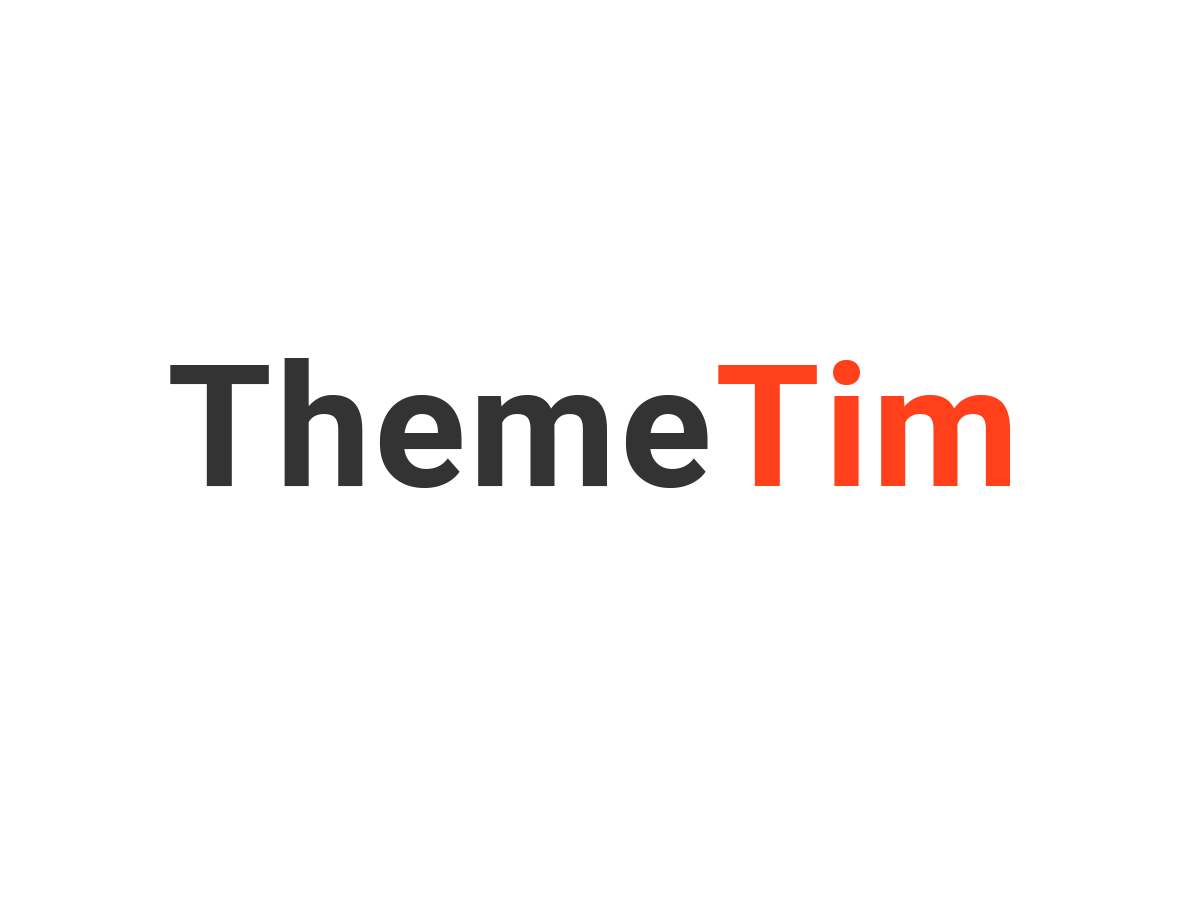
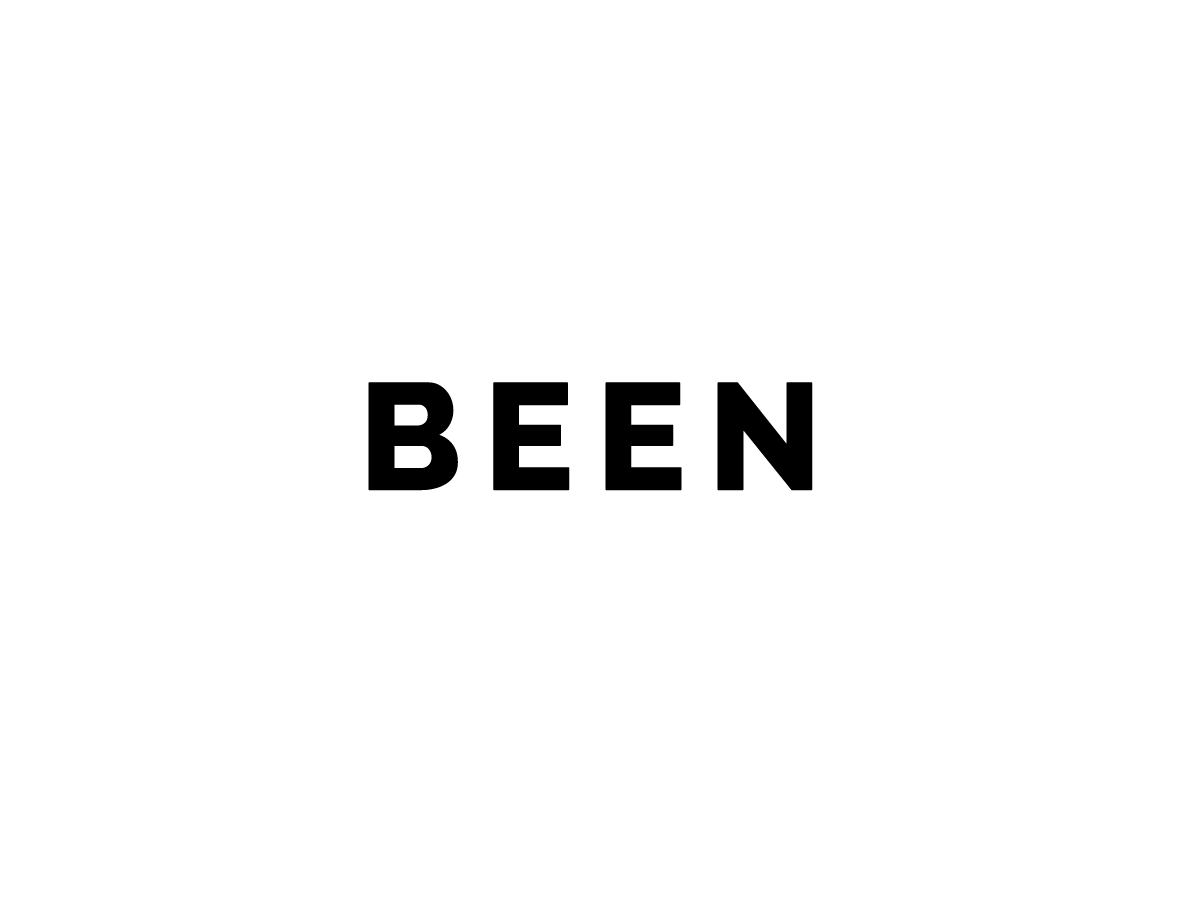
home page

Changed region(s): [[0.1233, 0.4044, 0.8633, 0.56]]

diff --git a/style.css b/style.css
@@ -1,11 +1,11 @@
 /*
-Theme Name: Yoga Responsive WooCommerce WordPress Theme
+Theme Name: Been Woman Fashion Store WooCommerce WordPress Responsive Theme
 Theme URI: http://themetim.com/
-Author: ThemeTim
+Author: themetim.com
 Author URI: http://themetim.com/
-Description: Yoga is responsive woocommerce integrated theme which is designed subtle and prevailing. Ideal for featuring yoga products and techniques. It has been optimized for best practice SEO with visual page builder integration.
+Description: Been is responsive woocommerce integrated theme which is designed subtle and prevailing. Ideal for featuring Been products and techniques. It has been optimized for best practice SEO with visual page builder integration.
 Version: 1.0
-Text Domain: themetim
+Text Domain: themetim.com
 Tags: fully customizable, visual page builder, mobile responsive, responsive, grid, bootstrap, custom menu, full width, custom sidebar, ecommerce, blog, modern design, featured image, custom background, news and promotions, social,woocommerce
 */
 
@@ -171,8 +171,6 @@ p,.textwidget,.woocommerce-Address address {
 }
 .header{
 	top: 0;
-	position: fixed;
-	width: 100%;
 	z-index: 10;
 }
 .sticky .header-top,.header, .header-top{

diff --git a/page-left-sidebar.php b/page-left-sidebar.php
@@ -1,6 +1,6 @@
 <?php
 /**
- * Template Name: No Sidebar
+ * Template Name: Left Sidebar
  *
  * @package ThemeTim
  * @subpackage ThemeTim
@@ -15,10 +15,9 @@ get_header(); ?>
         <section>
             <div class="container">
                 <div class="row">
-                    <div class="col-md-12 col-sm-12 col-xs-12 padding-gap-1">
+                    <div class="col-md-9 col-sm-8 col-xs-12 padding-gap-1 padding-gap-4">
                         <?php
                         while ( have_posts() ) : the_post();
-
                             get_template_part( 'template-parts/content', 'page' );
 
                             // If comments are open or we have at least one comment, load up the comment template.
@@ -29,6 +28,7 @@ get_header(); ?>
                         endwhile; // End of the loop.
                         ?>
                     </div>
+                    <?php get_sidebar(); ?>
                 </div>
             </div>
         </section>

diff --git a/page.php b/page.php
@@ -21,7 +21,7 @@ get_header(); ?>
 		<section>
 			<div class="container">
 				<div class="row">
-					<div class="col-md-9 col-sm-8 col-xs-12 padding-gap-1 padding-gap-4">
+					<div class="col-md-12 col-sm-12 col-xs-12 padding-gap-1 padding-gap-4">
 						<?php
 						while ( have_posts() ) : the_post();
 							get_template_part( 'template-parts/content', 'page' );
@@ -34,12 +34,10 @@ get_header(); ?>
 						endwhile; // End of the loop.
 						?>
 					</div>
-					<?php get_sidebar(); ?>
 				</div>
 			</div>
 		</section>
 	</main><!-- #main -->
-
 <?php
 
 get_footer();

diff --git a/header.php b/header.php
@@ -36,7 +36,7 @@
 								<span class="icon-bar"></span>
 							</button>
 						</div>
-						<div class="pull-left logo margin-top-20">
+						<div class="pull-left logo margin-top-10">
 							<?php
 							if (get_theme_mod('site_logo') != '') : ?>
 								<a href="<?php echo site_url('/'); ?>"><img src="<?php echo get_theme_mod('site_logo'); ?>" class="img-responsive" alt="" /></a>
